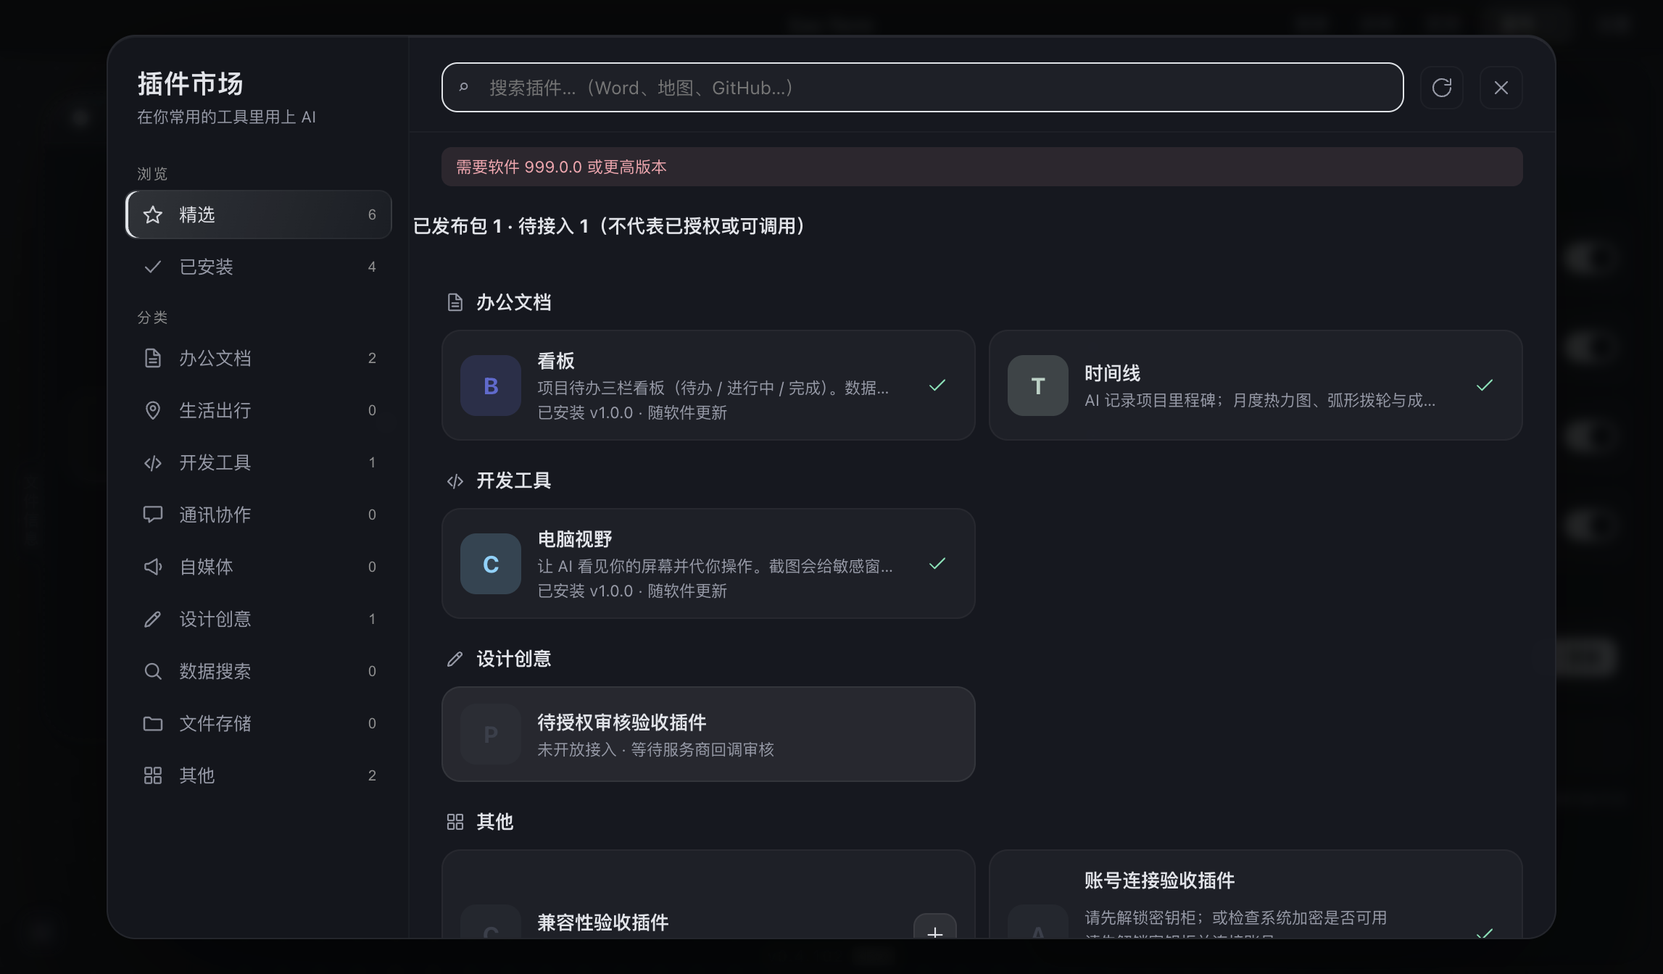
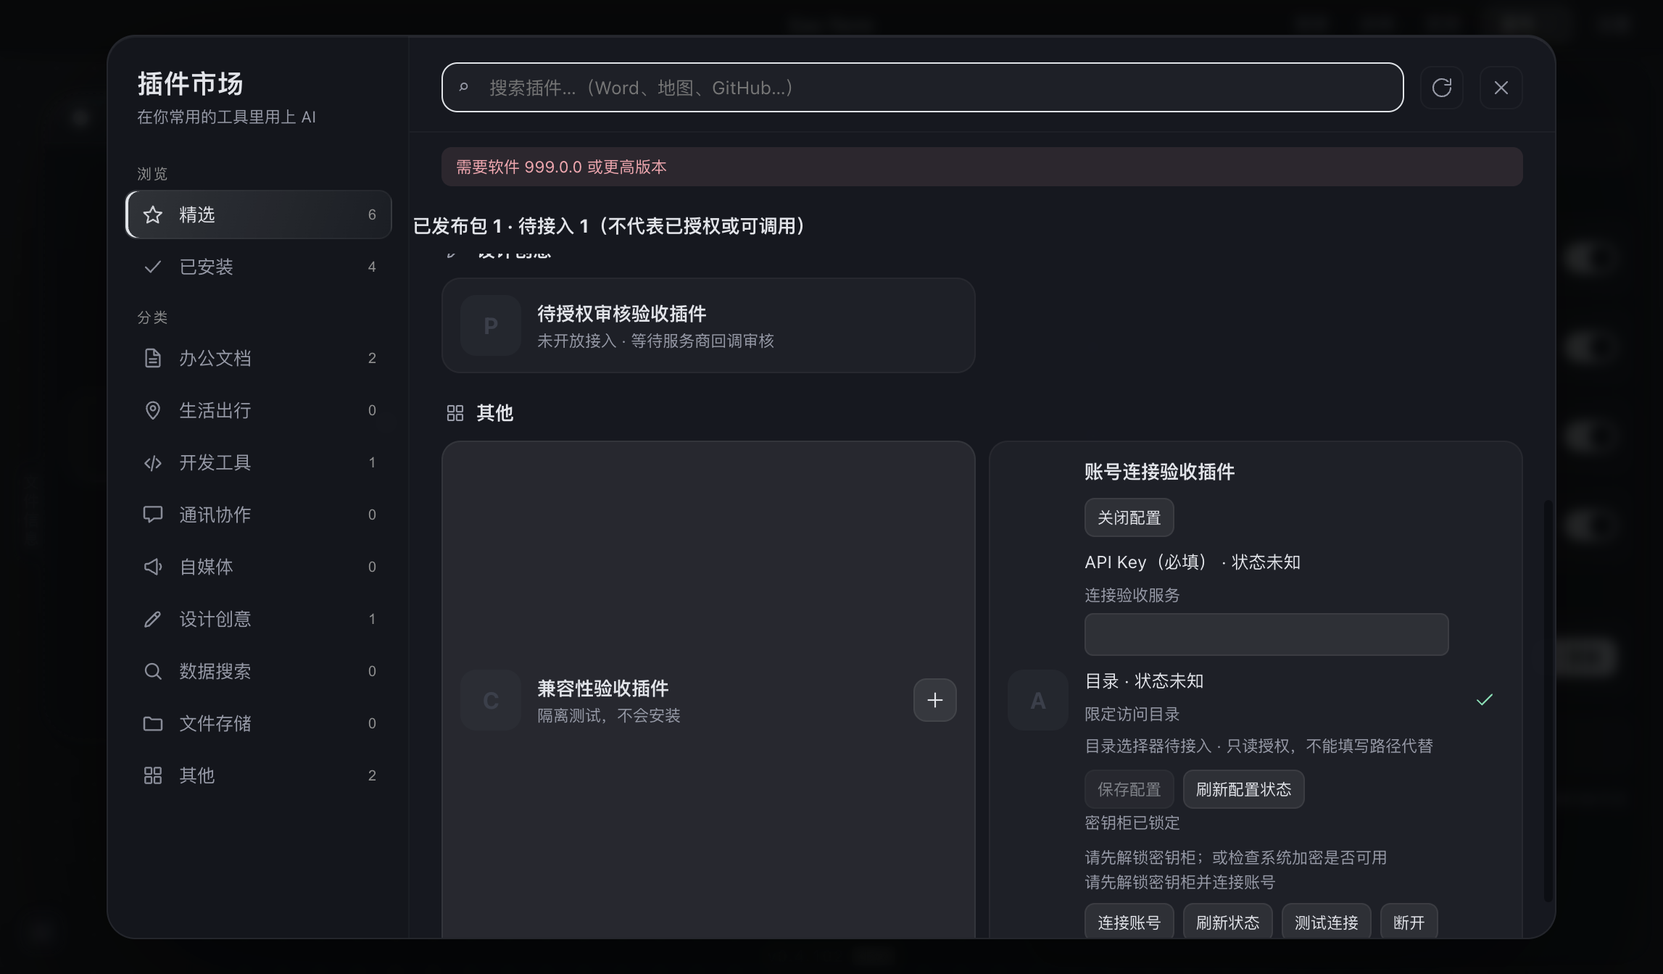
feat(plugins): connect configuration form to guarded encrypted storage

diff --git a/docs/verification/plugin-marketplace/progress.html b/docs/verification/plugin-marketplace/progress.html
@@ -1,16 +1,16 @@
-<!doctype html><html lang="zh-CN"><head><meta charset="utf-8"><meta name="viewport" content="width=device-width,initial-scale=1"><title>插件接入 · 实时进度</title><style>*{box-sizing:border-box}body{margin:0;background:#0a0a0a;color:#f5f5f5;font:15px/1.75 -apple-system,BlinkMacSystemFont,"PingFang SC",sans-serif}main{max-width:1080px;padding:28px;margin:auto}h1{font-size:29px;letter-spacing:-.02em;margin:8px 0}h2{font-size:12px;color:#a3a3a3;letter-spacing:.15em}section{background:rgba(23,23,23,.5);border:1px solid #262626;border-radius:14px;padding:20px;margin:18px 0}.muted{color:#a3a3a3}.warn{border-left:2px solid #fbbf24}.good{color:#6ee7b7}table{width:100%;border-collapse:collapse;font-size:13.5px}td{padding:9px;border-bottom:1px solid #262626}pre{background:#111;white-space:pre-wrap;overflow-wrap:anywhere;padding:16px;border-radius:12px;font-size:12px}.tw{overflow-x:auto}</style></head><body><main><h2>LIVE TASK STATUS / 本地轮询节点</h2><h1>插件市场统一接入</h1><p class="muted">按原 Demo 32 项接入 · 未上线 · 不修改正式应用</p><section class="warn"><b>通过 · 配置密文存储：全量检查、构建与隔离回归</b><p>本次任务耗时 70 秒</p><p class="muted">最后采样：2026-09-18T07:43:18-07:00</p><p id="stale"></p></section><section><h2>DELIVERY / 交付阶段</h2><div class="tw"><table><tr><td>清单与设计</td><td class="good">已确认 · 32 项</td></tr><tr><td>兼容性门禁</td><td>代码已接线 · 不兼容拒绝已隔离 UI 验证</td></tr><tr><td>打包与安装边界</td><td>清单确认后防变更、普通更新失败回退已测试</td></tr><tr><td>远程 MCP / 统一授权</td><td>远程宿主、授权控件、连接测试已接线；真实账号端到端未验证</td></tr><tr><td>32 项插件接入</td><td>未完成；不以目录卡片计完成数</td></tr><tr><td>市场独立更新验收</td><td>未完成</td></tr></table></div></section><section><h2>PROCESS / 真实任务输出</h2><pre>    &quot;主进程插件 homedir 适配至临时目录，正式凭证目录仍受 OS 沙箱拒绝&quot;,
-    &quot;安装权限确认前没有落入插件目录&quot;,
-    &quot;真实市场UI两段式安装1.0.0到临时HOME&quot;,
-    &quot;市场卡片不横向溢出内容区&quot;,
-    &quot;市场提供显式刷新目录入口&quot;,
-    &quot;同一应用进程重新读取目录即获得1.1.0，无宿主构建或重启&quot;,
-    &quot;更新按钮展示新版和权限确认，不静默覆盖&quot;,
-    &quot;更新确认前旧版本保持可用&quot;,
-    &quot;真实市场UI确认后替换为1.1.0并显示已安装版本&quot;,
-    &quot;真实更新按钮下载损坏的1.2.0后明确显示哈希拒绝&quot;,
-    &quot;失败更新保留1.1.0文件&quot;,
-    &quot;有效hash但版本谎报的更新被真实UI拒绝，旧版保持&quot;,
-    &quot;离线刷新展示缓存提示而不是空市场&quot;,
-    &quot;全程同一应用PID，无宿主重启&quot;
+<!doctype html><html lang="zh-CN"><head><meta charset="utf-8"><meta name="viewport" content="width=device-width,initial-scale=1"><title>插件接入 · 实时进度</title><style>*{box-sizing:border-box}body{margin:0;background:#0a0a0a;color:#f5f5f5;font:15px/1.75 -apple-system,BlinkMacSystemFont,"PingFang SC",sans-serif}main{max-width:1080px;padding:28px;margin:auto}h1{font-size:29px;letter-spacing:-.02em;margin:8px 0}h2{font-size:12px;color:#a3a3a3;letter-spacing:.15em}section{background:rgba(23,23,23,.5);border:1px solid #262626;border-radius:14px;padding:20px;margin:18px 0}.muted{color:#a3a3a3}.warn{border-left:2px solid #fbbf24}.good{color:#6ee7b7}table{width:100%;border-collapse:collapse;font-size:13.5px}td{padding:9px;border-bottom:1px solid #262626}pre{background:#111;white-space:pre-wrap;overflow-wrap:anywhere;padding:16px;border-radius:12px;font-size:12px}.tw{overflow-x:auto}</style></head><body><main><h2>LIVE TASK STATUS / 本地轮询节点</h2><h1>插件市场统一接入</h1><p class="muted">按原 Demo 32 项接入 · 未上线 · 不修改正式应用</p><section class="warn"><b>通过 · 配置锁定状态文案核对：类型、构建与UI</b><p>本次任务耗时 15 秒</p><p class="muted">最后采样：2026-09-18T07:50:50-07:00</p><p id="stale"></p></section><section><h2>DELIVERY / 交付阶段</h2><div class="tw"><table><tr><td>清单与设计</td><td class="good">已确认 · 32 项</td></tr><tr><td>兼容性门禁</td><td>代码已接线 · 不兼容拒绝已隔离 UI 验证</td></tr><tr><td>打包与安装边界</td><td>清单确认后防变更、普通更新失败回退已测试</td></tr><tr><td>远程 MCP / 统一授权</td><td>远程宿主、授权控件、连接测试已接线；真实账号端到端未验证</td></tr><tr><td>32 项插件接入</td><td>未完成；不以目录卡片计完成数</td></tr><tr><td>市场独立更新验收</td><td>未完成</td></tr></table></div></section><section><h2>PROCESS / 真实任务输出</h2><pre>{
+  &quot;passed&quot;: true,
+  &quot;checks&quot;: [
+    &quot;市场展示隔离目录条目&quot;,
+    &quot;OAuth账号控制显示连接/刷新/测试/断开与真实锁定状态&quot;,
+    &quot;实际IPC只返回状态，不返回凭证&quot;,
+    &quot;未授权测试连接明确拒绝，不打开登录或发出服务调用&quot;,
+    &quot;配置插件提供软件内配置入口&quot;,
+    &quot;目录不允许文本路径冒充授权&quot;,
+    &quot;锁定密钥柜拒绝配置读取且不返回值&quot;,
+    &quot;锁定读取失败不误报未配置&quot;,
+    &quot;v2待接入条目展示原因且无安装按钮&quot;,
+    &quot;点击接入后显示明确宿主版本错误&quot;,
+    &quot;请求仅为目录，未下载插件包&quot;
   ]
-}</pre></section><p class="muted">运行时每 5 秒采样并刷新；结束后显示真实退出结果。页面轮询不会启动任务，也不会让 AI 在会话结束后自行继续开发。</p><p>反馈指令：<code>汇报当前阻碍</code></p></main><script>const age=(Date.now()-Date.parse('2026-09-18T07:43:18-07:00'))/1000;if(age>30&&false)document.getElementById('stale').textContent='采样已超过 30 秒未更新，任务状态待核实，不能据此认定仍在运行。';</script></body></html>
+}</pre></section><p class="muted">运行时每 5 秒采样并刷新；结束后显示真实退出结果。页面轮询不会启动任务，也不会让 AI 在会话结束后自行继续开发。</p><p>反馈指令：<code>汇报当前阻碍</code></p></main><script>const age=(Date.now()-Date.parse('2026-09-18T07:50:50-07:00'))/1000;if(age>30&&false)document.getElementById('stale').textContent='采样已超过 30 秒未更新，任务状态待核实，不能据此认定仍在运行。';</script></body></html>

diff --git a/src/renderer/src/features/canvas/PluginConfigurationControls.tsx b/src/renderer/src/features/canvas/PluginConfigurationControls.tsx
@@ -1,0 +1,30 @@
+import {useEffect,useRef,useState} from 'react'
+import type {PluginInfo} from '../../../../shared/types'
+export function PluginConfigurationControls({plugin}:{plugin:PluginInfo}):JSX.Element{
+ const [open,setOpen]=useState(false),[busy,setBusy]=useState(false),[configured,setConfigured]=useState<string[]|null>(null),[draft,setDraft]=useState<Record<string,string|null>>({}),[message,setMessage]=useState('')
+ const generation=useRef(0)
+ useEffect(()=>()=>{generation.current++},[plugin.id])
+ const run=async(action:'status'|'save')=>{
+  const seq=++generation.current;setBusy(true)
+  try{
+   const result=await window.api.plugins.configuration(action,plugin.id,action==='save'?draft:undefined)
+   if(seq!==generation.current)return
+   if(result.ok){setConfigured(result.configured);setMessage(action==='save'?'配置已保存；运行时注入尚未接通，不代表插件可调用':'配置状态已刷新')}
+   else {setConfigured(null);setMessage(result.error)}
+  }catch{if(seq===generation.current)setMessage('配置操作失败，请重试')}
+  finally{if(seq===generation.current){setBusy(false);if(action==='save')setDraft({})}}
+ }
+ return <div className="pm-auth" data-plugin-config={plugin.id}>
+  <div className="pm-auth-actions"><button type="button" disabled={busy} onClick={()=>{setOpen(!open);setDraft({});if(!open)void run('status')}}>{open?'关闭配置':'配置插件'}</button></div>
+  {open&&<form autoComplete="off" onSubmit={e=>{e.preventDefault();void run('save')}}>
+   {plugin.config?.fields.map(field=><label key={field.id} className="pm-config-field">
+    <span>{field.label}{field.required?'（必填）':''} · {configured===null?'状态未知':configured.includes(field.id)?'已保存，留空保留':'未配置'}</span>
+    <span className="pm-cd">{field.purpose}</span>
+    {field.type==='directory'?<span className="pm-cd">目录选择器待接入 · {field.access==='read'?'只读':'读写'}授权，不能填写路径代替</span>:field.type==='enum'?<select disabled={busy} value={draft[field.id]??''} onChange={e=>setDraft(d=>({...d,[field.id]:e.target.value}))}><option value="" disabled>选择选项（不改则保留）</option>{field.options.map(o=><option key={o.value} value={o.value}>{o.label}</option>)}</select>:<input disabled={busy} autoComplete="off" type={field.type==='secret'?'password':'text'} maxLength={field.type==='string'?field.maxLength:16384} value={draft[field.id]??''} onChange={e=>setDraft(d=>{const n={...d};if(e.target.value)n[field.id]=e.target.value;else delete n[field.id];return n})}/>}
+    {!field.required&&field.type!=='directory'&&<button type="button" disabled={busy} onClick={()=>setDraft(d=>({...d,[field.id]:null}))}>{draft[field.id]===null?'保存时清除':'清除此项'}</button>}
+   </label>)}
+   <div className="pm-auth-actions"><button type="submit" disabled={busy||!Object.keys(draft).length}>保存配置</button><button type="button" disabled={busy} onClick={()=>void run('status')}>刷新配置状态</button></div>
+   <div className="pm-cd" role="status">{busy?'配置操作中…':message}</div>
+  </form>}
+ </div>
+}

diff --git a/src/main/pluginConnections/configurationActions.ts b/src/main/pluginConnections/configurationActions.ts
@@ -1,0 +1,48 @@
+import type {PluginInfo} from '../../shared/types'
+export type ConfigurationResult={ok:true;configured:string[]}|{ok:false;error:string}
+interface Dependencies {
+ find:(id:string)=>PluginInfo|undefined
+ confirm:(info:PluginInfo)=>Promise<boolean>
+ assertIdle:(name:string)=>void
+ load:(info:PluginInfo)=>Record<string,string>|undefined
+ save:(info:PluginInfo,values:Record<string,string>)=>void
+}
+export const configurationIdentity=(info:PluginInfo)=>JSON.stringify([info.name,info.root,info.config,info.mcp,info.remote,info.permissions])
+/** No paths/endpoints or credentials returned to renderer. Omitted fields retain values;
+ * null explicitly clears an optional field. Directory grants require a separate native picker. */
+export function createConfigurationActions(deps:Dependencies){
+ return async(action:unknown,id:unknown,patch?:unknown):Promise<ConfigurationResult>=>{
+  try{
+   if(!['status','save'].includes(String(action))||typeof id!=='string'||!/^eas:[a-z0-9][a-z0-9-]{0,39}$/.test(id))throw Error('配置参数无效')
+   const info=deps.find(id)
+   if(!info||info.cli!=='eas'||!info.config)throw Error('插件没有配置声明')
+   if(action==='save'){
+    if(!patch||typeof patch!=='object'||Array.isArray(patch)||Object.keys(patch).length>32)throw Error('配置输入无效')
+    const snapshot=configurationIdentity(info)
+    if(!await deps.confirm(info))return {ok:false,error:'已取消'}
+    const current=deps.find(id)
+    if(!current||configurationIdentity(current)!==snapshot)throw Error('插件配置已变化，请重新确认')
+    deps.assertIdle(info.name)
+    const values={...deps.load(info)}
+    for(const [key,value] of Object.entries(patch)){
+     const field=info.config.fields.find(f=>f.id===key)
+     if(!field)throw Error('存在未知配置字段')
+     if(field.type==='directory')throw Error('目录必须通过原生选择器授权')
+     if(value===null){delete values[key];continue}
+     if(typeof value!=='string'||value.includes('\0'))throw Error('配置值格式无效')
+     if(field.type==='string'&&value.length>field.maxLength||field.type==='secret'&&value.length>16384)throw Error('配置值长度超限')
+     if(field.type==='enum'&&!field.options.some(o=>o.value===value))throw Error('枚举选项无效')
+     values[key]=value
+    }
+    for(const field of info.config.fields){
+     if(field.required&&!values[field.id]?.trim())throw Error('缺少必填配置：'+field.label)
+     if(field.type==='directory'&&values[field.id])throw Error('目录授权运行时尚未接通')
+    }
+    deps.save(info,values)
+    return {ok:true,configured:info.config.fields.filter(f=>!!values[f.id]).map(f=>f.id)}
+   }
+   const values=deps.load(info)??{}
+   return {ok:true,configured:info.config.fields.filter(f=>!!values[f.id]).map(f=>f.id)}
+  }catch(error){return {ok:false,error:error instanceof Error?error.message:'插件配置操作失败'}}
+ }
+}

diff --git a/src/main/pluginConnections/configurationActions.test.ts b/src/main/pluginConnections/configurationActions.test.ts
@@ -1,0 +1,27 @@
+import {test} from 'node:test'
+import assert from 'node:assert/strict'
+import {createConfigurationActions} from './configurationActions.ts'
+import type {PluginInfo} from '../../shared/types'
+const info:PluginInfo={id:'eas:fixture',cli:'eas',name:'fixture',root:'/fixture',displayName:'Fixture',mcp:{command:'node',args:[],env:{},cwd:'/fixture'},config:{fields:[{id:'key',type:'secret',label:'Key',purpose:'连接服务',required:true},{id:'region',type:'enum',label:'区域',purpose:'选择服务区域',required:true,options:[{value:'cn',label:'中国'}]}]}}
+function setup(){let current=structuredClone(info),values:Record<string,string>|undefined,allowed=true,locked=false,writes=0;const run=createConfigurationActions({find:()=>current,confirm:async()=>allowed,assertIdle:()=>{if(locked)throw Error('busy')},load:()=>values,save:(_i,v)=>{values=v;writes++}});return {run,values:()=>values,writes:()=>writes,cancel:()=>{allowed=false},busy:()=>{locked=true},change:()=>{current={...current,config:{fields:[]}}}}}
+test('save validates fields, preserves omitted secrets and returns presence only',async()=>{
+ const s=setup();assert.equal((await s.run('save',info.id,{key:'private',region:'cn'})).ok,true)
+ const state=await s.run('status',info.id);assert.deepEqual(state,{ok:true,configured:['key','region']});assert.doesNotMatch(JSON.stringify(state),/private/)
+ assert.equal((await s.run('save',info.id,{region:'cn'})).ok,true);assert.equal(s.values()?.key,'private')
+ for(const patch of [{region:'us'},{key:null},{unknown:'x'},{key:3}])assert.equal((await s.run('save',info.id,patch)).ok,false)
+ assert.equal(s.writes(),2)
+})
+test('cancel and active plugin block writes, directory strings do not grant access',async()=>{
+ const s=setup();s.cancel();assert.equal((await s.run('save',info.id,{key:'private',region:'cn'})).ok,false);assert.equal(s.writes(),0)
+ const b=setup();b.busy();assert.equal((await b.run('save',info.id,{key:'private',region:'cn'})).ok,false);assert.equal(b.writes(),0)
+ let writes=0
+ const dir={...info,config:{fields:[{id:'root',type:'directory' as const,label:'目录',purpose:'读文件',required:true,access:'read' as const}]}}
+ const run=createConfigurationActions({find:()=>dir,confirm:async()=>true,assertIdle(){},load:()=>undefined,save:()=>{writes++}})
+ assert.equal((await run('save',info.id,{root:'/Users'})).ok,false);assert.equal(writes,0)
+})
+test('manifest changes while confirmation is open cannot save into the new configuration',async()=>{
+ let current=structuredClone(info),writes=0
+ const run=createConfigurationActions({find:()=>current,confirm:async()=>{current={...current,mcp:{...current.mcp!,args:['different']}};return true},assertIdle(){},load:()=>undefined,save:()=>{writes++}})
+ const result=await run('save',info.id,{key:'private',region:'cn'})
+ assert.equal(result.ok,false);if(!result.ok)assert.match(result.error,/已变化/);assert.equal(writes,0)
+})

diff --git a/src/main/plugins.ts b/src/main/plugins.ts
@@ -1,3 +1,5 @@
+import { createConfigurationActions } from './pluginConnections/configurationActions.ts'
+import { loadPluginConfiguration, savePluginConfiguration } from './pluginConfiguration'
 import { createAuthorizationActions } from './pluginConnections/authorizationActions.ts'
 import { getPluginAuthorization } from './pluginAuthorization'
 import { BrowserWindow, dialog } from 'electron'
@@ -251,6 +253,16 @@ export function findPlugin(id: string): PluginInfo | undefined {
 }
 
 export function registerPluginHandlers(): void {
+  guardedHandle('plugins:configuration', async(event,args:{action?:unknown;id?:unknown;values?:unknown})=>{
+    const win=BrowserWindow.fromWebContents(event.sender)
+    if(!win||win.isDestroyed())return {ok:false,error:'工作台窗口已关闭'}
+    const {assertPluginPackageIdle}=await import('./pluginHost')
+    return createConfigurationActions({find:findPlugin,load:loadPluginConfiguration,save:savePluginConfiguration,assertIdle:assertPluginPackageIdle,confirm:async info=>{
+      const result=await dialog.showMessageBox(win,{type:'question',title:'保存插件配置',message:`保存「${info.displayName}」的配置？`,detail:'配置加密保存在本机，密钥不回显。配置变更不会自动启动插件或连接服务。目录必须单独授权。',buttons:['取消','保存'],defaultId:0,cancelId:0})
+      return result.response===1&&!win.isDestroyed()
+    }})(args?.action,args?.id,args?.values)
+  })
+
   guardedHandle('plugins:authorization', (event, args: {action?:unknown;id?:unknown}) => {
     const win=BrowserWindow.fromWebContents(event.sender)
     if(!win||win.isDestroyed())return {ok:false,error:'工作台窗口已关闭'}

diff --git a/src/main/pluginConfiguration.ts b/src/main/pluginConfiguration.ts
@@ -1,0 +1,18 @@
+import {app} from 'electron'
+import fs from 'node:fs'
+import path from 'node:path'
+import {createHash} from 'node:crypto'
+import type {PluginInfo} from '../shared/types'
+import {acquirePluginCredentialAccess} from './secrets'
+import {PluginCredentialStore} from './pluginConnections/credentialStore.ts'
+import {configurationIdentity} from './pluginConnections/configurationActions.ts'
+/** Fixed main-owned storage; no IPC caller path or credential namespace selection. */
+function access<T>(info:PluginInfo,op:(store:PluginCredentialStore,scope:{plugin:string;issuer:string;resource:string;account:string},lease:ReturnType<typeof acquirePluginCredentialAccess>)=>T):T{
+ if(!app.isReady()||info.cli!=='eas'||!info.config)throw Error('插件配置不可用')
+ const scope={plugin:info.name,issuer:'eas:configuration:v1',resource:createHash('sha256').update(configurationIdentity(info)).digest('hex'),account:'local-primary'}
+ const store=new PluginCredentialStore(path.join(fs.realpathSync(app.getPath('userData')),'plugin-credentials'))
+ const lease=acquirePluginCredentialAccess()
+ try{return op(store,scope,lease)}finally{lease.dispose()}
+}
+export const loadPluginConfiguration=(info:PluginInfo)=>access(info,(store,scope,lease)=>store.loadConfiguration(scope,lease))
+export const savePluginConfiguration=(info:PluginInfo,values:Record<string,string>)=>access(info,(store,scope,lease)=>store.saveConfiguration(scope,values,lease))

diff --git a/src/renderer/src/features/canvas/PluginMarketModal.tsx b/src/renderer/src/features/canvas/PluginMarketModal.tsx
@@ -1,3 +1,4 @@
+import { PluginConfigurationControls } from './PluginConfigurationControls'
 import { canUpdatePlugin } from '../../../../shared/pluginUpdate'
 // 完整插件市场弹窗（「更多 › 插件」页点「查看完整插件市场」进来）。
 // 左边智能分类、顶部搜索、卡片用真实品牌 logo + 名字 + 简介 + 安装。设计稿
@@ -159,6 +160,7 @@ export function PluginMarketModal({ onClose, onChanged }: { onClose: () => void;
           {it.description && <div className="pm-cd">{it.description}</div>}
           {it.plugin?.version && <div className="pm-cd">已安装 v{it.plugin.version}{update ? ` · 可更新至 v${it.reg!.version}` : ''}{it.plugin.builtin ? ' · 随软件更新' : ''}</div>}
           {it.reason && <div className="pm-cd" title={it.reason}>未开放接入 · {it.reason}</div>}
+          {it.plugin?.config&&<PluginConfigurationControls plugin={it.plugin}/>}
           {it.plugin?.remote?.auth==='oauth'&&<PluginAccountControls id={it.plugin.id} enabled={it.plugin.enabled!==false}/>}
         </div>
         <div className="pm-cact">

diff --git a/src/preload/index.ts b/src/preload/index.ts
@@ -1133,6 +1133,7 @@ const api = {
     showLog: (): Promise<{ ok: boolean }> => ipcRenderer.invoke('diag:showLog')
   },
   plugins: {
+    configuration: (action: 'status'|'save', id: string, values?: Record<string,string|null>): Promise<{ok:true;configured:string[]}|{ok:false;error:string}> => ipcRenderer.invoke('plugins:configuration', {action,id,values}),
     authorization: (action: PluginAuthorizationAction, id: string): Promise<PluginAuthorizationResult> => ipcRenderer.invoke('plugins:authorization', {action,id}),
     /** 已装的 CLI 插件全表。**每次都当场扫盘**（见 main/plugins.ts），
      *  用户刚在终端里装完一个，回画布就能看到，不用重开软件。 */

diff --git a/src/renderer/src/features/canvas/canvas.css b/src/renderer/src/features/canvas/canvas.css
@@ -7028,3 +7028,6 @@
 }
 .pm-auth-actions button:hover:not(:disabled) { background: var(--lift-3); }
 .pm-auth-actions button:disabled { opacity: .5; cursor: default; }
+
+.pm-config-field { display: flex; flex-direction: column; gap: 5px; margin: 9px 0; font-size: 12px; }
+.pm-config-field input, .pm-config-field select { width: 100%; min-width: 0; box-sizing: border-box; color: var(--fg); background: var(--lift-2); border: 1px solid var(--glass-border-strong); border-radius: 6px; padding: 6px 8px; }

diff --git a/docs/AGENT_ACTIVITY_LOG.md b/docs/AGENT_ACTIVITY_LOG.md
@@ -167,3 +167,9 @@ Mac双架构签名公证和smoke通过，Windows34573939599全部通过；五包
 - 专项先红后绿；完整检查构建与旧热更新回归监测43254在跑。
 - 尚无配置控制器/IPC/UI/注入，仍不算用户功能完成；未访问真实密钥、未发布。
 - 最终3360项/3342通过/18skip/0fail；build及隔离热更新14项通过，已眼验截图。没有配置UI验收或新增真实连接器可用证据。
+
+## 2026-09-18 配置主进程接口与软件表单
+- guarded plugins:configuration / preload / 原生默认取消确认 / 配置控制器 / 主进程scope hash与密钥柜存储已连接；只返回字段已保存状态，密钥不回显。保存前检查活动宿主和确认期间描述变更，目录文本授权拒绝。
+- 软件内配置按钮、密码输入、保存/刷新与锁定提示已构建打开。第一次截图截掉表单，滚动同卡片重截图后眼验；发现锁定读取失败不能显示“未配置”，改为状态未知，最后类型/构建/UI监测21307在跑。
+- 5414全量通过3362项/3344pass/18skip/0fail，构建和10项UI通过；期间额外确认变更测试单独3项通过。真实解锁保存/目录picker/宿主注入与32插件仍缺，未发布。
+- 最终21307退出0，类型/构建及11项隔离UI通过，截图眼验状态未知和锁定提示并更新Frame；所有监测结束，未生产发布。
